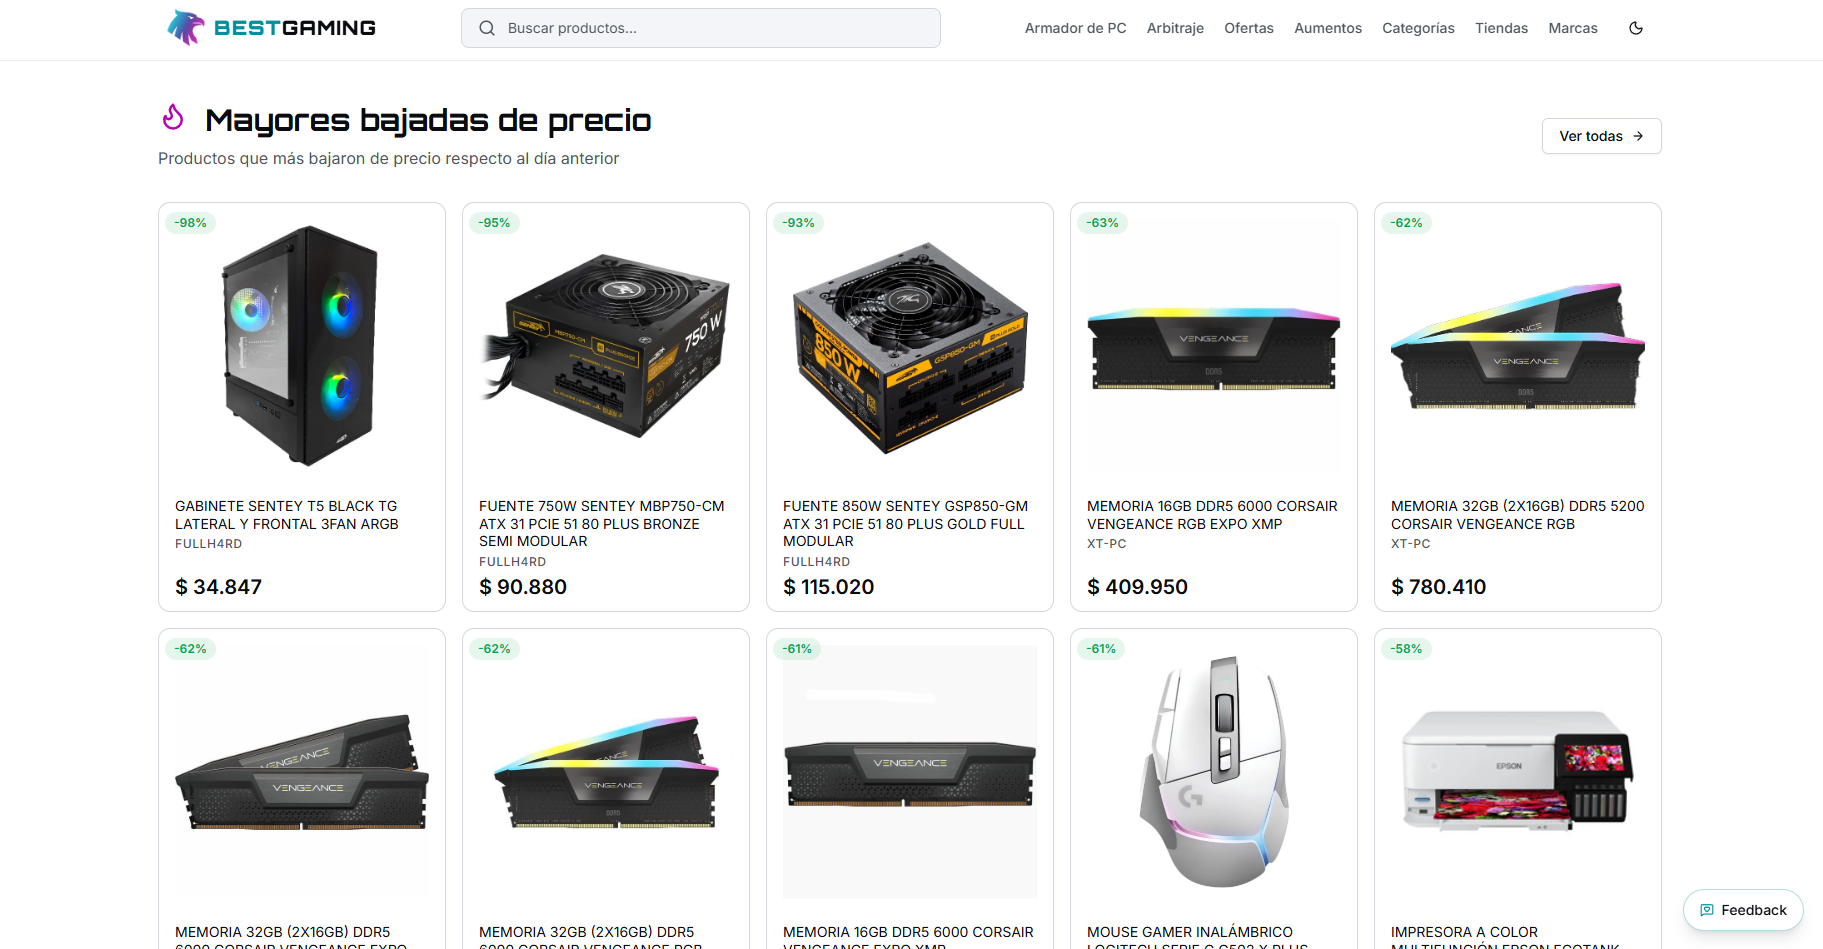
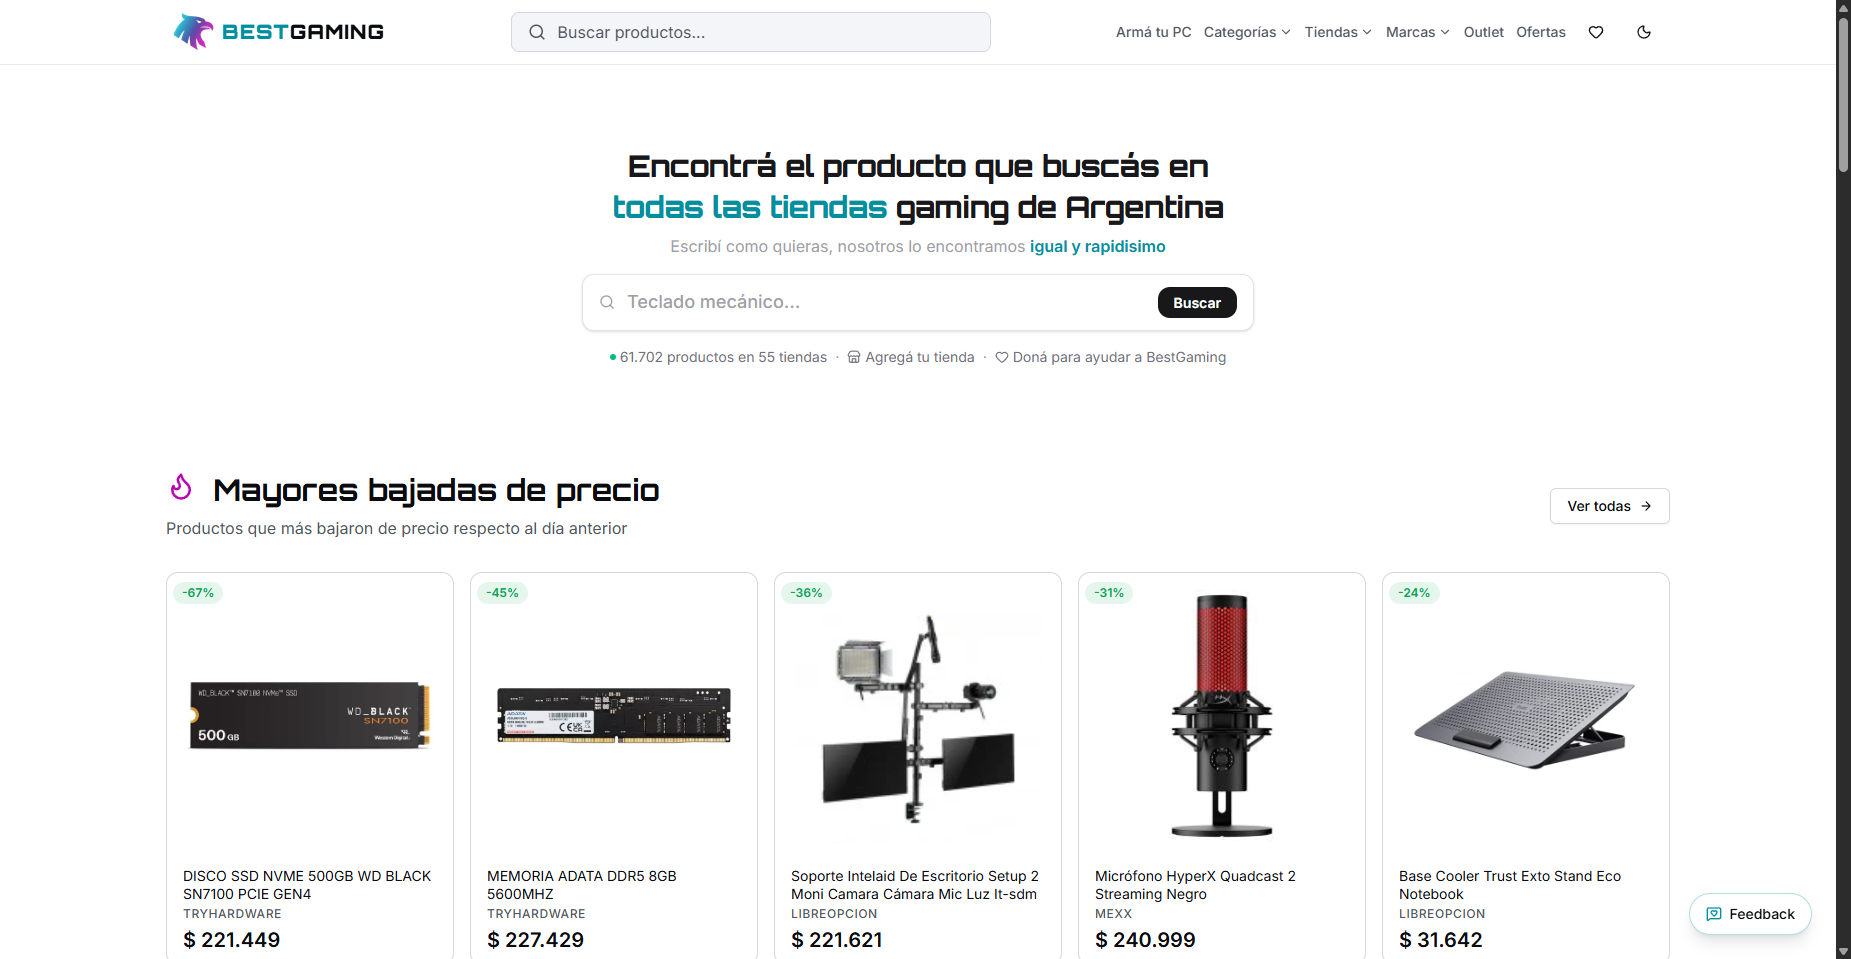
fix: revert image position to object-top

diff --git a/src/components/PortfolioCard.vue b/src/components/PortfolioCard.vue
@@ -87,7 +87,7 @@ onMounted(() => {
       <!-- Actual image -->
       <img
         v-else
-        class="absolute inset-0 w-full h-full object-cover object-center"
+        class="absolute inset-0 w-full h-full object-cover object-top"
         :src="info.image"
         :alt="info.title"
         @error="imageNotAvailable = true"
